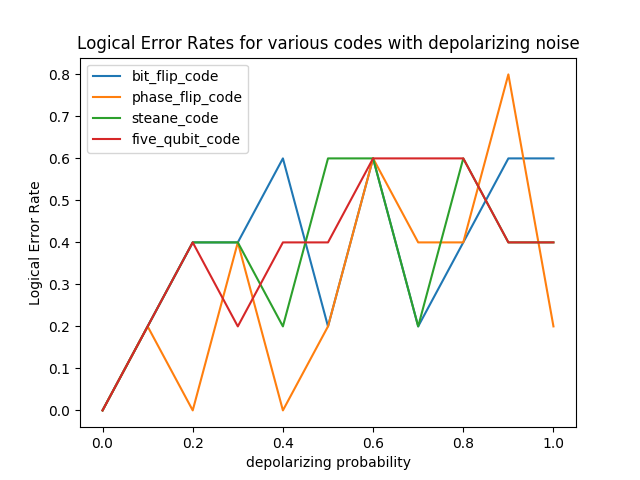
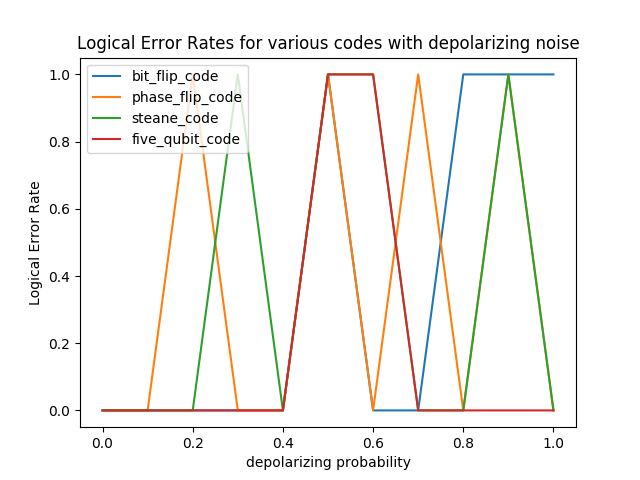
plots

diff --git a/logical_vs_physical_error_rates.py b/logical_vs_physical_error_rates.py
@@ -70,7 +70,7 @@ noise_model_list = [["amplitude damping",noise_models_kraus.damping_kraus_map],
 
 #noise_model_list = [["depolarizing",noise_models_kraus.depolarizing_channel]]
 
-num_trials_tot = 500
+num_trials_tot = 1
 
 for j in range(len(noise_model_list)):
 	fig = plt.figure()
